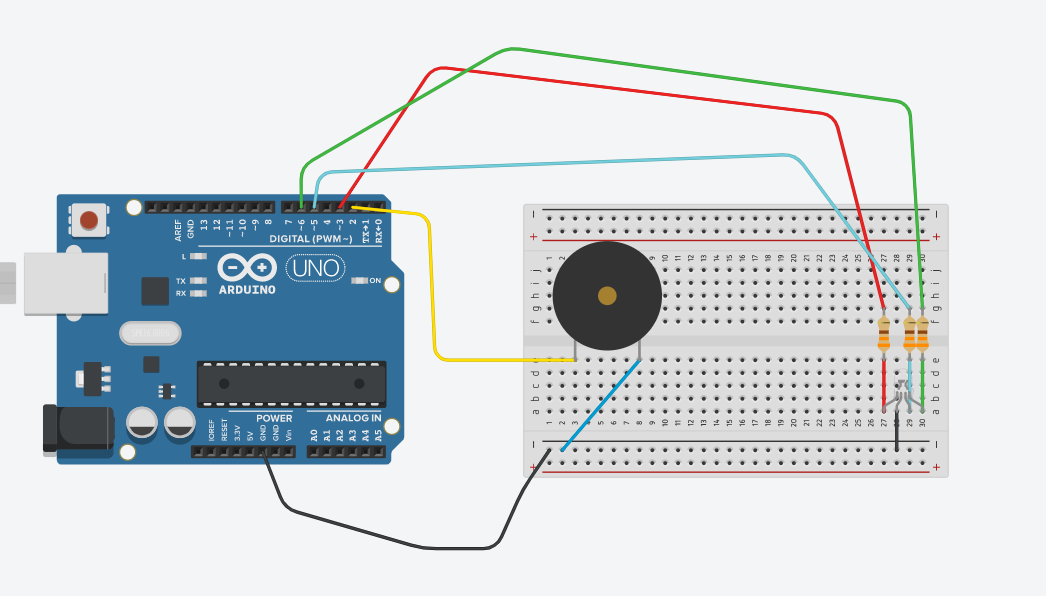
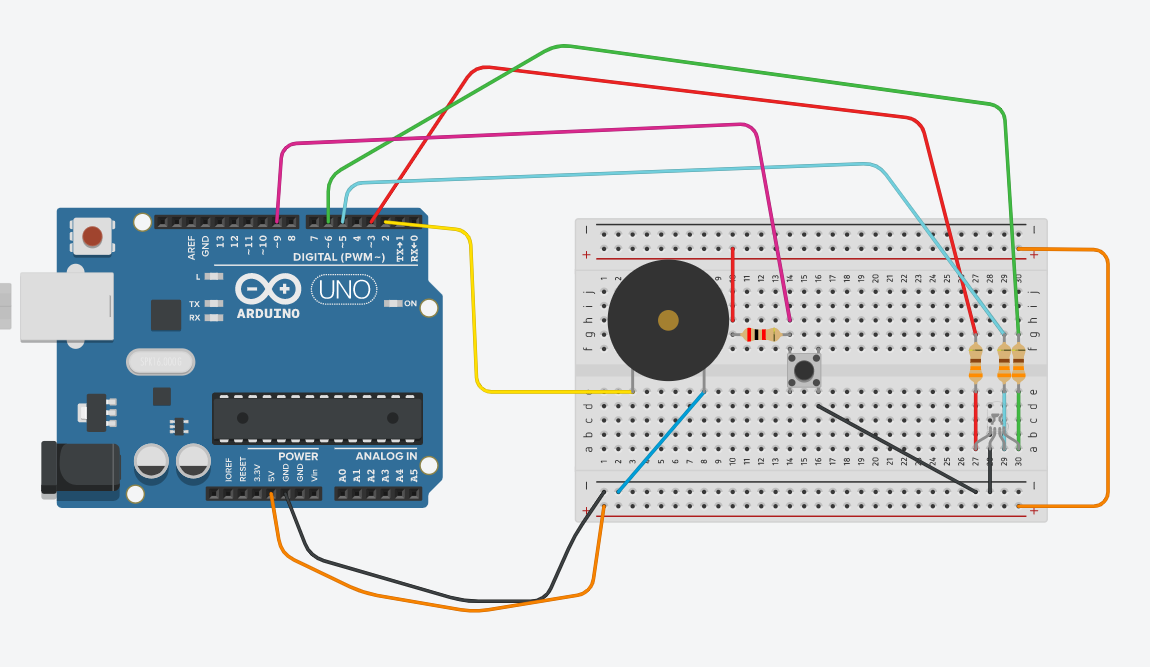
Cambios varios

Changed region(s): [[0.0, 0.0604, 0.979, 0.9362]]

diff --git a/bin/keyboard/notes.h b/bin/keyboard/notes.h
@@ -1,0 +1,40 @@
+/*
+    NOTAS DE UN PIANO
+*/
+#ifndef _NOTES_H
+#define _NOTES_H
+
+#define C8 4186.01
+#define B7 3951.07
+#define LA_SI 3729.31
+#define A7 3520.00
+#define SOL_LA 3322.44
+#define G7  3135.96
+#define FA_SOL 2959.96
+#define F7 2793.83
+#define E7 2637.02
+#define RE_MI 2489.02
+#define D7 2349.32
+#define DO_RE 2217.46
+#define C7 2093.00
+#define B6 1975.53
+#define LA_SI 1864.66
+#define A6 1760.00
+#define SOL_LA  1661.22
+#define G6 1567.98
+#define FA_SOL 1479.98
+#define F6 1396.91
+#define E6 1318.51
+#define RE_MI 1244.51
+#define D6 1174.66
+#define DO_RE 1108.73
+#define C6 1046.50
+#define B5 987.767
+#define A5 880.00
+#define G5 783.991
+#define F5 698.456
+#define E5 659.255
+#define C5 523.251
+#define B4 493.883
+
+#endif

diff --git a/bin/menu.py b/bin/menu.py
@@ -1,3 +1,27 @@
-import serial
+import serial, time
 
-def 
+arduino = serial.Serial("COM3", 9600) #En X pon el numero donde esta conectado tu placa Arduino
+f = "utf-8"
+
+def menu():
+    print("----- MENU DE KKeyboard -----")
+    print("1. Simon dice\n")
+    o = input()
+    op = o.encode(f)
+
+    arduino.write(op)
+    bS = arduino.read_all()
+    text = bS.decode(f)
+    print(text)
+    o = input()
+    op = o.encode(f)
+
+    
+if __name__ == "__main__":
+    bString = arduino.readline()
+    string = bString.decode(f) #Pasamos de bytes a string
+    print(string)
+
+    menu() #Pasamos al menu
+
+    arduino.close()

diff --git a/README.md b/README.md
@@ -12,3 +12,6 @@ _Para poder utilizar el piano necesitarás los siguientes componentes:_
 # ¿Cómo conecto cada componente?
 _Te dejo por aquí abajo un esquema para que puedas ver cómo se puede conectar:_
 ![alt text](https://github.com/PaCoders/KKeyboard/blob/master/src/circuit.png)
+
+# ¿Qué hago con los programas?
+_En primer lugar deberás cargar el archivo con extensión .ino en tu placa de arduino una vez conectados los componentes._
